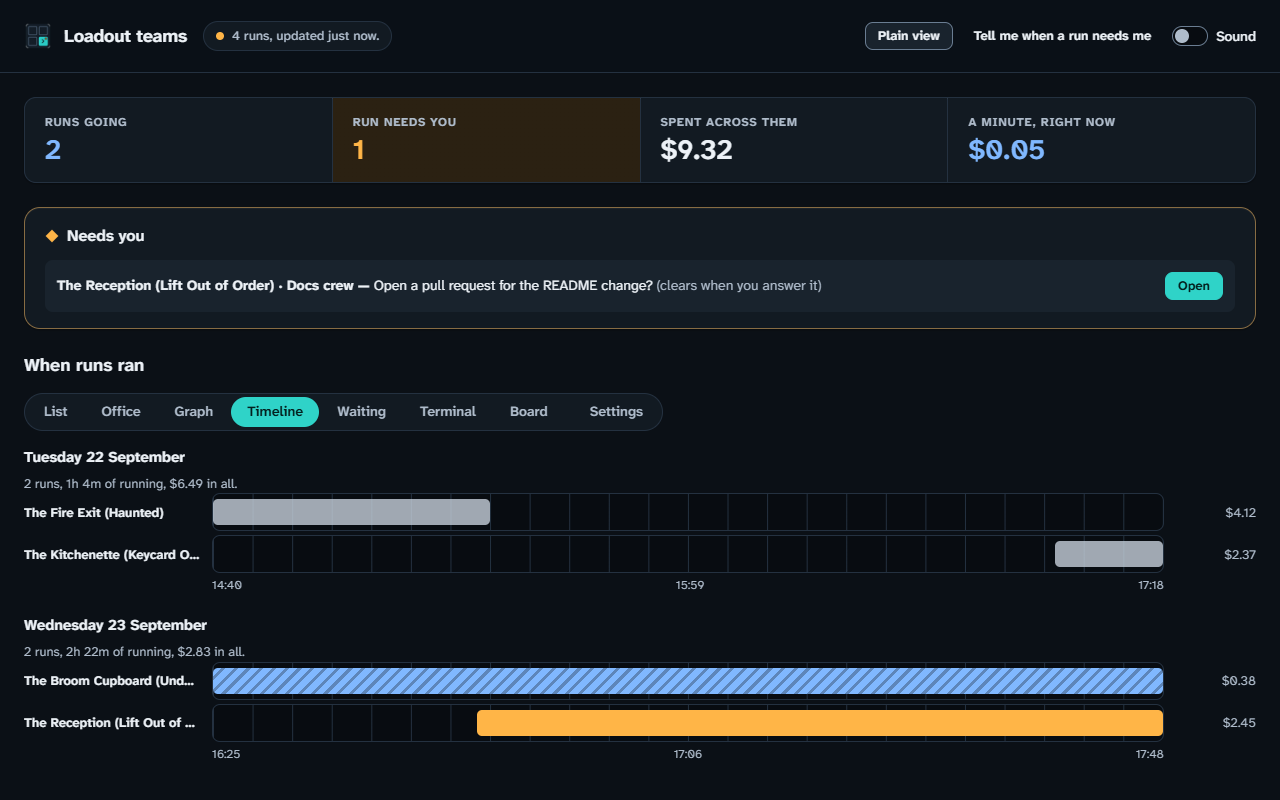
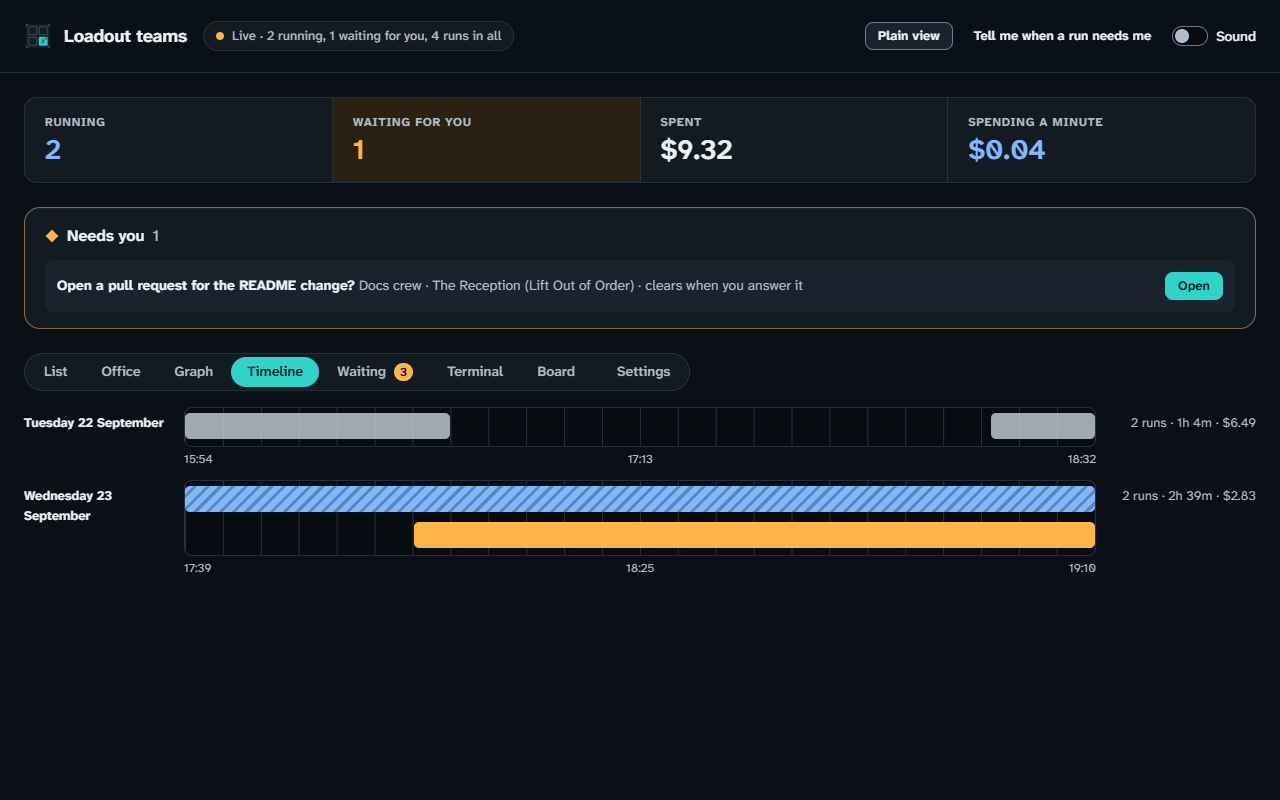
Retake the dashboard screenshots after the component rebuild
Every screen's anatomy changed, so all nine pictures are retaken from
the docs sandbox, and the alt text for the run list, the office, the
graph, the timeline and the run detail describes what they now show.
Page text put through privacy-check.py: no hits.

diff --git a/docs/guides/dashboard.md b/docs/guides/dashboard.md
@@ -38,7 +38,7 @@ Copy the whole address, token included, into your browser. Or start it with
 loadout team dashboard --open
 ```
 
-![The dashboard's run list. A band of totals across the top, then one run under "Needs you" waiting for an answer, one under "Running", and the start of "Finished". Each card states its run's state as a word, with a glyph beside it.](../images/dashboard-list-rich.png)
+![The dashboard's run list. A band of totals across the top, the Needs you rail, and the screens as a row of tabs. Then one run under "Needs you", whose card shows the question it is asking, one under "Running", and two under "Finished". Each card names its team and room and states its state as a word, with a glyph beside it.](../images/dashboard-list-rich.png)
 
 You should see a band of totals across the top, then your runs grouped under
 *Needs you*, *Running* and *Finished*. *Needs you* comes first because a run
@@ -70,15 +70,15 @@ runs in different ways; *Waiting* shows what hasn't become a run yet, and
 - **Office** — one room per run, a desk per node. The one to leave on a spare
   screen.
 
-  ![The office screen. One room per run, two across. The docs-crew run's room has a desk for each of its three nodes, each desk a rounded square with the node's name and state written under it: done, waiting for you, and left. The one waiting for you is outlined in amber with a dot on its corner.](../images/dashboard-office.png)
+  ![The office screen. One room per run, two across, each with its team and state beside its name. The docs-crew run's room has a desk for each of its three nodes, each desk a card with a rounded square on it and the node's name and state written under it: done, waiting for you, and left. The one waiting for you is outlined in amber with a dot on its corner.](../images/dashboard-office.png)
 
 - **Graph** — who asked whom. Reach for it when something is stuck.
 
-  ![The graph screen. The lead at the top, with lines to the two workers it asked for. One is marked "waiting for you".](../images/dashboard-graph.png)
+  ![The graph screen. The lead's card at the top, with lines to the cards of the two workers it asked for. Each card gives the node's name, role and cost, and its state as a word; one is marked "waiting for you" and joined by a dashed amber line.](../images/dashboard-graph.png)
 
 - **Timeline** — where the time and money went, a strip per day.
 
-  ![The timeline screen. Two days, each with a strip per run showing when it started and ended, and that day's time and cost written above it. A running run's strip is striped and a finished one is solid.](../images/dashboard-timeline.png)
+  ![The timeline screen. Two days, each a single track with a bar for every run, runs that overlapped on lanes of their own, and the day's runs, time and cost beside it. A running run's bar is striped and a finished one is solid.](../images/dashboard-timeline.png)
 
 - **Waiting** — schedules that haven't fired and tasks nobody has finished.
   Anything held says what's holding it, in words.
@@ -99,7 +99,7 @@ heading, which is also what a screen reader reads out.
 
 Select a run. It opens in the detail pane.
 
-![A run open in the detail pane. Its three done-when criteria, two marked met and one not attempted, and a gate asking whether to open a pull request, with Approve and Refuse buttons.](../images/dashboard-run-detail.png)
+![A run open in the detail pane, beside the list. Its heading with its state and facts, a gate asking whether to open a pull request with Approve and Refuse buttons, its three done-when criteria, two marked met and one not attempted, and what it has spent against its budget.](../images/dashboard-run-detail.png)
 
 You should see its done-when criteria, each marked met, unmet or not attempted
 in words, and any gate it's waiting on. A gate is a point where the run stops

diff --git a/docs/plain/watching-a-team.md b/docs/plain/watching-a-team.md
@@ -54,7 +54,7 @@ loadout team dashboard --open
 
 Your web browser opens. Only your own computer can see this page.
 
-![The dashboard's run list. A band of totals across the top, then one run under "Needs you" waiting for an answer, one under "Running", and the start of "Finished". Each card states its run's state as a word, with a glyph beside it.](../images/dashboard-list-rich.png)
+![The dashboard's run list. A band of totals across the top, the Needs you rail, and the screens as a row of tabs. Then one run under "Needs you", whose card shows the question it is asking, one under "Running", and two under "Finished". Each card names its team and room and states its state as a word, with a glyph beside it.](../images/dashboard-list-rich.png)
 
 You'll see your team's work on a card. The card says in words what state it's
 in.
